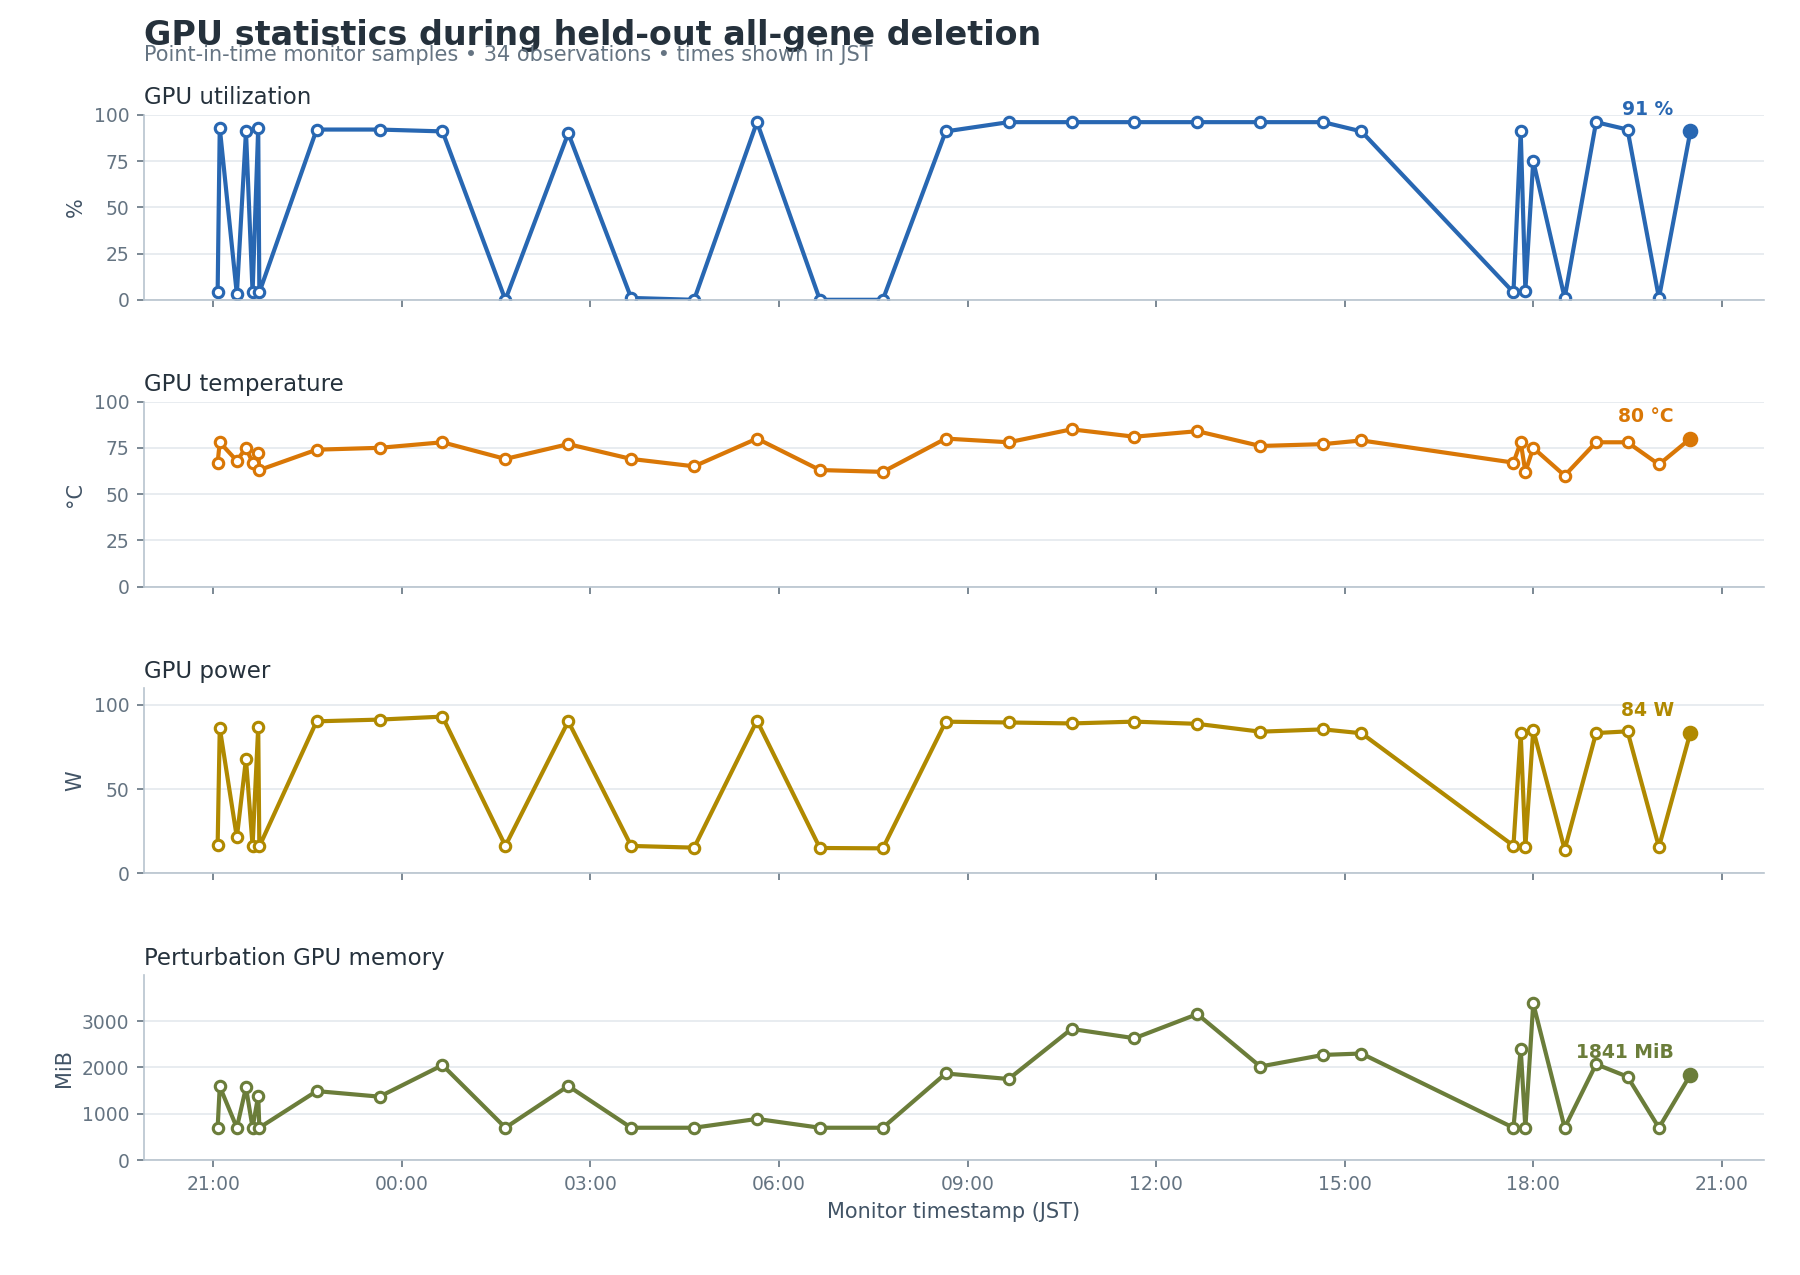
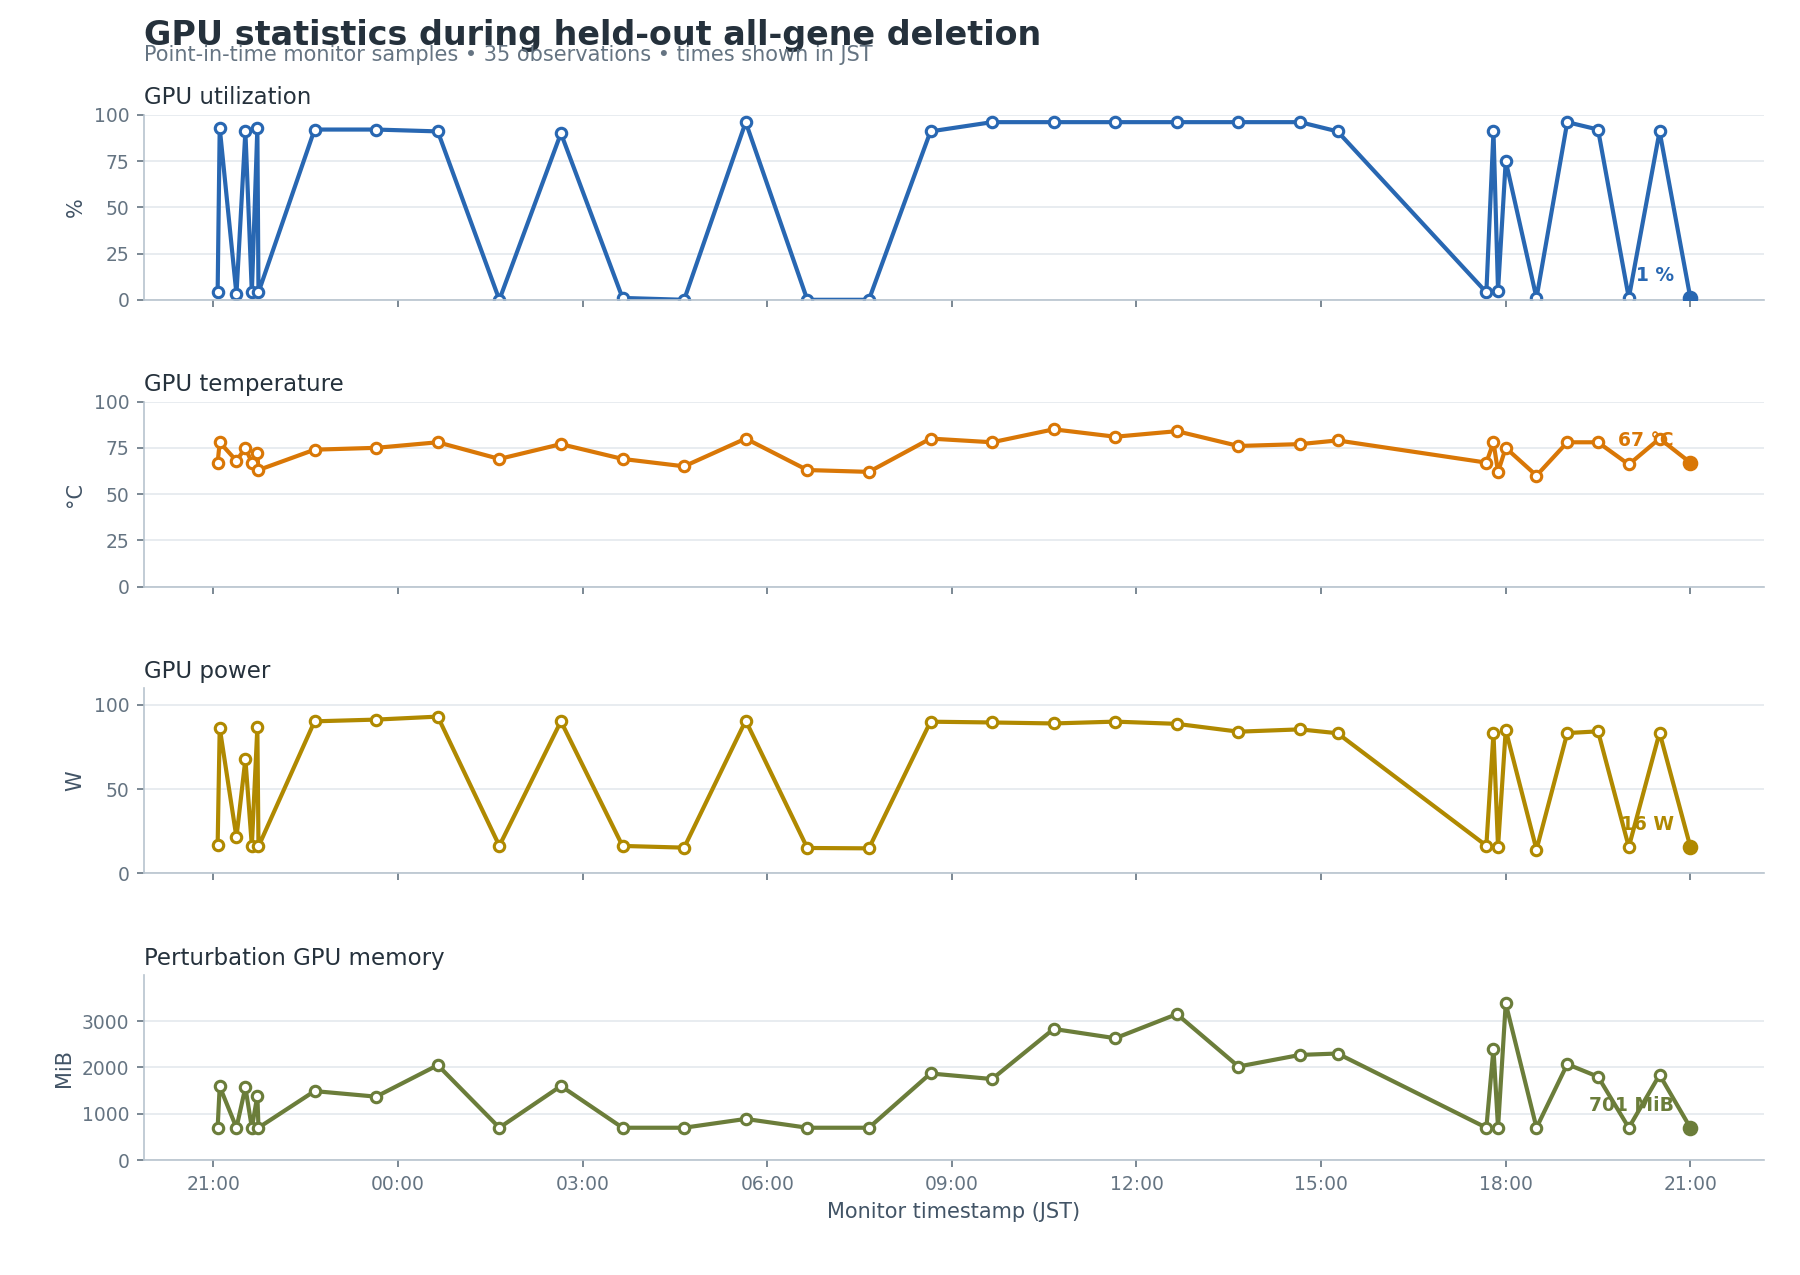
monitor: update perturbation status 2026-07-18 21:00 JST

diff --git a/current_workflow/monitoring/GPU_PROGRESS_REPORT.md b/current_workflow/monitoring/GPU_PROGRESS_REPORT.md
@@ -15,6 +15,7 @@ Newest refreshes are appended at the top and retained for the most recent
 48 runs.
 
 <!-- JOB_RUN_SUMMARIES_START -->
+- **2026-07-18T21:00:02+09:00** — RUNNING; 2,904 / 3,379 cells (85.94%). The run advanced by 45 cells and 2 shards, lifting completion from 84.61% to 85.94%. LUSC remained complete; LUAD remained complete; NORMAL moved from 888 to 933 cells; GPU utilization fell from 91% to 1%.
 - **2026-07-18T20:30:01+09:00** — RUNNING; 2,859 / 3,379 cells (84.61%). The run advanced by 46 cells and 2 shards, lifting completion from 83.25% to 84.61%. LUSC remained complete; LUAD remained complete; NORMAL moved from 842 to 888 cells; GPU utilization rose from 1% to 91%.
 - **2026-07-18T20:00:01+09:00** — RUNNING; 2,813 / 3,379 cells (83.25%). The run advanced by 47 cells and 2 shards, lifting completion from 81.86% to 83.25%. LUSC remained complete; LUAD remained complete; NORMAL moved from 795 to 842 cells; GPU utilization fell from 92% to 1%.
 - **2026-07-18T19:30:01+09:00** — RUNNING; 2,766 / 3,379 cells (81.86%). The run advanced by 37 cells and 1 shards, lifting completion from 80.76% to 81.86%. LUSC remained complete; LUAD remained complete; NORMAL moved from 758 to 795 cells; GPU utilization fell from 96% to 92%.
@@ -28,20 +29,20 @@ Newest refreshes are appended at the top and retained for the most recent
 
 ## Current snapshot
 
-**What changed since the prior report:** The run advanced by 46 cells and 2 shards, lifting completion from 83.25% to 84.61%. LUSC remained complete; LUAD remained complete; NORMAL moved from 842 to 888 cells; GPU utilization rose from 1% to 91%.
+**What changed since the prior report:** The run advanced by 45 cells and 2 shards, lifting completion from 84.61% to 85.94%. LUSC remained complete; LUAD remained complete; NORMAL moved from 888 to 933 cells; GPU utilization fell from 91% to 1%.
 
 | Metric | Value |
 | --- | --- |
-| Generated | 2026-07-18T20:30:01+09:00 |
+| Generated | 2026-07-18T21:00:02+09:00 |
 | Run status | RUNNING |
-| Overall cell progress | 2,859 / 3,379 (84.61%) |
+| Overall cell progress | 2,904 / 3,379 (85.94%) |
 | GPU | NVIDIA GB10 |
-| GPU utilization | 91% |
-| GPU temperature | 80 C |
-| GPU power | 83.5 W |
-| Perturbation GPU memory | 1,841 MiB |
-| System memory used | 40.0 GiB |
-| System memory available | 79.7 GiB |
+| GPU utilization | 1% |
+| GPU temperature | 67 C |
+| GPU power | 15.8 W |
+| Perturbation GPU memory | 701 MiB |
+| System memory used | 41.6 GiB |
+| System memory available | 78.1 GiB |
 | Swap used | 0.0 GiB |
 
 ### Progress by source
@@ -50,11 +51,11 @@ Newest refreshes are appended at the top and retained for the most recent
 | --- | --- | --- | --- | --- |
 | LUSC | 560 / 560 (100.00%) | 23 / 23 | 1,120 | 348,313 / 348,313 |
 | LUAD | 1,411 / 1,411 (100.00%) | 57 / 57 | 2,822 | 1,150,097 / 1,150,097 |
-| NORMAL | 888 / 1,408 (63.07%) | 35 / 57 | 1,788 | 900,641 / 1,439,366 |
+| NORMAL | 933 / 1,408 (66.26%) | 37 / 57 | 1,877 | 951,500 / 1,439,366 |
 
 ## Final statistical comparisons
 
-**0 / 6 comparisons are complete. Final aggregation waits for the deletion screen, currently 115 / 137 shards.**
+**0 / 6 comparisons are complete. Final aggregation waits for the deletion screen, currently 117 / 137 shards.**
 
 | Comparison | State | Result rows | Updated | Output |
 | --- | --- | --- | --- | --- |
@@ -79,6 +80,7 @@ The history table below shows the newest samples first.
 
 | Timestamp | Cells | Progress | GPU util | Temp | Power | Shards |
 | --- | --- | --- | --- | --- | --- | --- |
+| 2026-07-18T21:00:02+09:00 | 2,904 | 85.94% | 1% | 67 C | 15.8 W | 117 |
 | 2026-07-18T20:30:01+09:00 | 2,859 | 84.61% | 91% | 80 C | 83.5 W | 115 |
 | 2026-07-18T20:00:01+09:00 | 2,813 | 83.25% | 1% | 66 C | 15.7 W | 113 |
 | 2026-07-18T19:30:01+09:00 | 2,766 | 81.86% | 92% | 78 C | 84.3 W | 111 |
@@ -86,7 +88,6 @@ The history table below shows the newest samples first.
 | 2026-07-18T18:30:01+09:00 | 2,692 | 79.67% | 1% | 60 C | 14.1 W | 108 |
 | 2026-07-18T18:00:01+09:00 | 2,646 | 78.31% | 75% | 75 C | 85.2 W | 107 |
 | 2026-07-18T17:52:31+09:00 | 2,630 | 77.83% | 5% | 62 C | 15.7 W | 106 |
-| 2026-07-18T17:48:04+09:00 | 2,625 | 77.69% | 91% | 78 C | 83.2 W | 106 |
 
 ## Job notes
 
